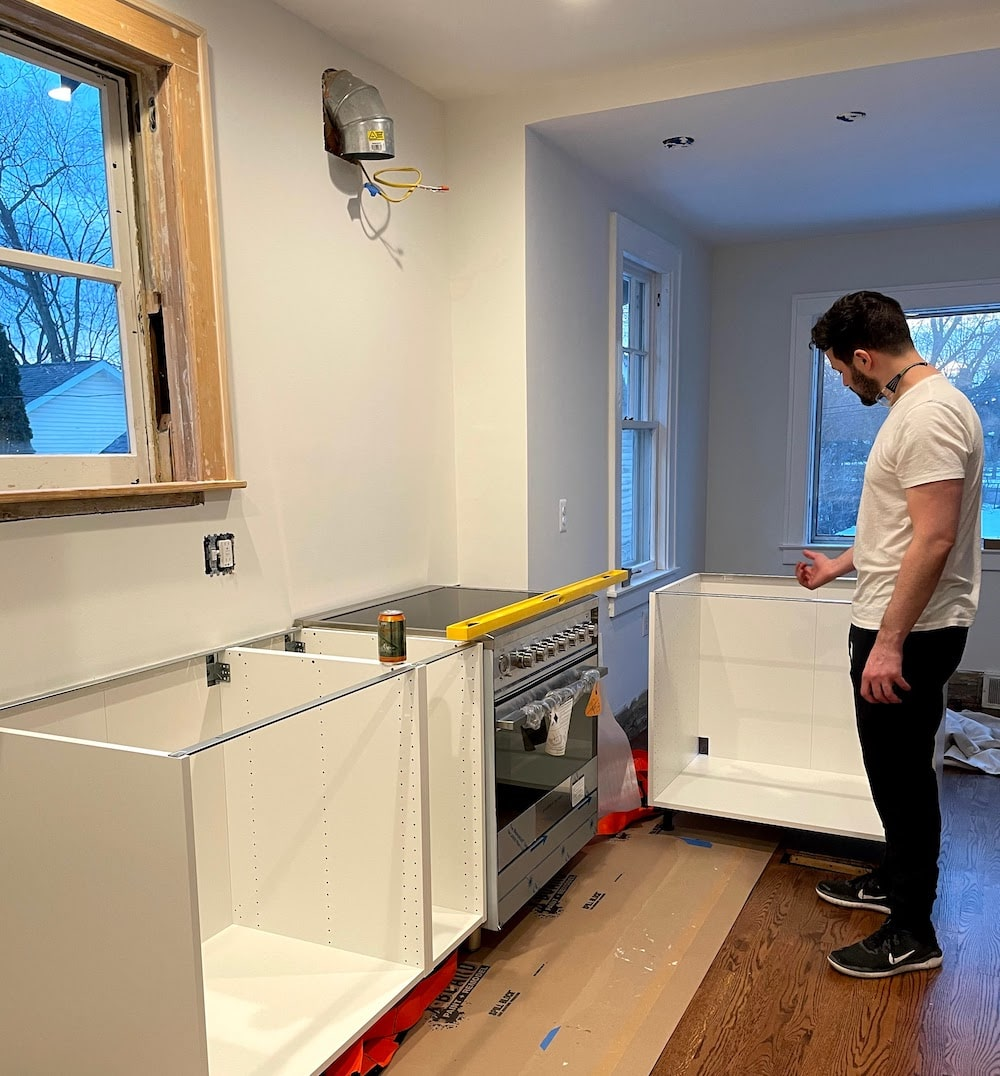
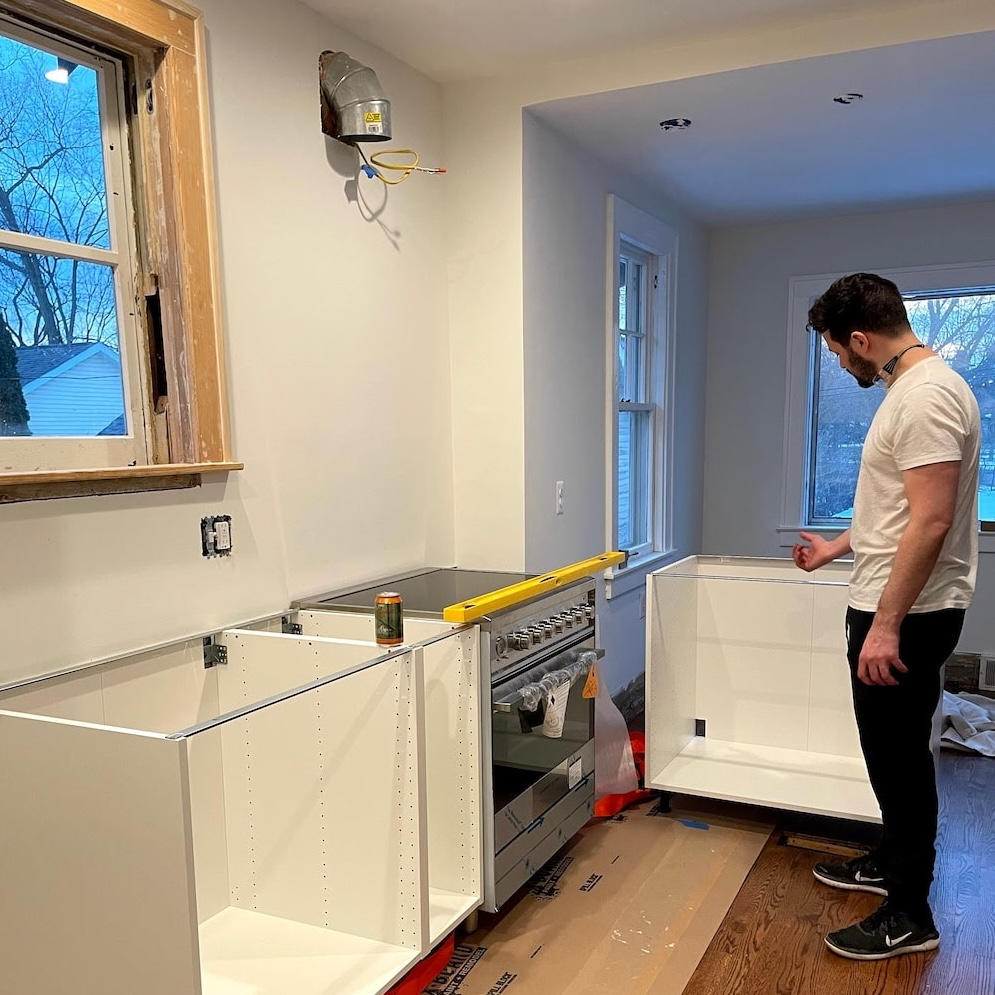
Add blog feed, finishing touches

diff --git a/src/content/blog/your-agent-needs-a-harness-not-a-framework.md b/src/content/blog/your-agent-needs-a-harness-not-a-framework.md
@@ -1,7 +1,7 @@
 ---
 title: "Your Agent Needs a Harness, Not a Framework"
 date: "2026-03-03"
-description: "Agent runtimes don't need yet another framework — they need a durable, event-driven harness that connects tools, memory, and models on production-grade infrastructure."
+description: "Why build your harness, and how to do it to avoid the framework trap."
 canonical: "https://x.com/djfarrelly/status/2028556984396452250"
 canonicalSource: "X.com"
 xImpressions: "170k"
@@ -20,9 +20,9 @@ Agent runtimes need the same thing. The LLM is the engine. Tools are the periphe
 
 That's the harness. And every agent framework is building one from scratch — their own retry logic, their own state persistence, their own job queues, their own event routing.
 
-**Durable, event-driven infrastructure already solves** this. Every LLM call or tool call becomes a step — an independently retryable unit of work. If the process dies on iteration five, iterations one through four are already persisted. Events route triggers between functions. Concurrency controls prevent collisions. Step-level traces give you **full observability** over every iteration of the agent loop. The infrastructure *is* the harness.
+**Durable, event-driven infrastructure already solves** this. Every LLM call or tool call becomes a step — an independently retryable unit of work. If the process dies on iteration five, iterations one through four are already persisted. Events route triggers between functions. Concurrency controls prevent collisions. Step-level traces give you **full observability** over every iteration of the agent loop. The infrastructure _is_ the harness.
 
-We built Utah — **Universally Triggered Agent Harness** — to prove this out. A conversational Telegram or Slack agent with tools, memory, sub-agent delegation, and full durability. Minimal TypeScript, no framework. Just Inngest functions, steps, and events providing the harness around a standard think → act → observe loop. **Think of it as a *durable*, cloud-ready OpenClaw.**
+We built Utah — **Universally Triggered Agent Harness** — to prove this out. A conversational Telegram or Slack agent with tools, memory, sub-agent delegation, and full durability. Minimal TypeScript, no framework. Just Inngest functions, steps, and events providing the harness around a standard think → act → observe loop. **Think of it as a _durable_, cloud-ready OpenClaw.**
 
 The "universally triggered" part matters: Telegram or Slack webhooks, cron schedules, sub-agent invocations, inter-function events — the agent doesn't know or care how it was activated. The trigger is decoupled from the work. Add a Slack bot tomorrow and the agent loop doesn't change. The harness routes it.
 
@@ -38,7 +38,7 @@ Telegram or Slack webhooks hit Inngest Cloud, where a webhook transform converts
 
 The worker uses Inngest's `connect()` API which establishes a persistent WebSocket connection from your local machine (or a mac mini or a remote server) to Inngest Cloud, without needing a public endpoint.
 
-The agent loop running in the worker is simple: it's a while loop with “steps” and the steps call LLMs and run tools. We use Pi's provider interface and their tools as *they're both great*, but you could use anything here. You could swap for AI SDK, TanStack AI, create your own tools or hook into MCP.
+The agent loop running in the worker is simple: it's a while loop with “steps” and the steps call LLMs and run tools. We use Pi's provider interface and their tools as _they're both great_, but you could use anything here. You could swap for AI SDK, TanStack AI, create your own tools or hook into MCP.
 
 ## If it's local, why use Inngest? Why not just use OpenClaw?
 
@@ -119,7 +119,11 @@ On top of those, Utah adds a few custom tools: `remember` (persist notes to a da
 The point: the tools story for AI agents is the same as any other software. Use existing libraries. Wrap them in Inngest steps. Done.
 
 ```tsx
-import { createReadTool, createWriteTool, createBashTool, /* ... */ } from "@mariozechner/pi-coding-agent";
+import {
+  createReadTool,
+  createWriteTool,
+  createBashTool /* ... */,
+} from "@mariozechner/pi-coding-agent";
 
 const tools = [
   createReadTool(config.workspace.root),
@@ -139,12 +143,12 @@ Utah isn't a single function that does everything. It's six functions that commu
 
 ```tsx
 const functions = [
-  handleMessage,     // The main agent loop
-  sendReply,         // Send responses back to the channel
-  acknowledgeMessage,// Typing indicator — fires immediately
-  failureHandler,    // Global error handler across all functions
-  heartbeat,         // Periodic scheduled check-ins
-  subAgent,          // Isolated sub-agent runs via step.invoke()
+  handleMessage, // The main agent loop
+  sendReply, // Send responses back to the channel
+  acknowledgeMessage, // Typing indicator — fires immediately
+  failureHandler, // Global error handler across all functions
+  heartbeat, // Periodic scheduled check-ins
+  subAgent, // Isolated sub-agent runs via step.invoke()
 ];
 ```
 
@@ -185,7 +189,7 @@ export const subAgent = inngest.createFunction(
       isSubAgent: true,
     });
     return await agentLoop(step);
-  }
+  },
 );
 ```
 
@@ -232,7 +236,7 @@ const PRUNING = {
 
 Old tool results get soft-trimmed (keep head + tail) or hard-cleared entirely when total context gets large. The last three iterations always stay intact.
 
-On top of that, there's a separate compaction system for the *session itself* — when estimated tokens exceed a threshold, the conversation history gets summarized before feeding it into the next run. Pruning handles within-run context. Compaction handles across-run accumulation.
+On top of that, there's a separate compaction system for the _session itself_ — when estimated tokens exceed a threshold, the conversation history gets summarized before feeding it into the next run. Pruning handles within-run context. Compaction handles across-run accumulation.
 
 We also added budget warnings — system messages injected when the agent is running low on iterations, telling it to wrap up. And overflow recovery: if the LLM returns a context-too-large error mid-run, we force-compact the messages and retry without wasting an iteration. Between pruning, compaction, budget pressure, and overflow recovery, the agent stays on track.
 

diff --git a/src/content/blog/your-agent-architecture-has-a-half-life.md b/src/content/blog/your-agent-architecture-has-a-half-life.md
@@ -1,7 +1,7 @@
 ---
 title: "Your Agent Architecture Has a Half-Life. Your Execution Layer Shouldn't."
 date: "2026-07-21"
-description: "Every six months, the \"right\" way to build an agent changes. Here's the one layer worth owning — and how to make everything else swappable."
+description: 'Every six months, the "right" way to build an agent changes. How should you architect your agentic system for evolution.'
 canonical: "https://www.inngest.com/blog/your-agent-architecture-has-a-half-life"
 canonicalSource: "Inngest Blog"
 image: "/images/posts/your-agent-architecture-has-a-half-life/featured-image-v2.png"
@@ -14,7 +14,7 @@ tags:
   - "ai engineering"
 ---
 
-*This article is adapted from a talk I gave at the AI Engineer World's Fair 2026 in San Francisco.*
+_This article is adapted from a talk I gave at the AI Engineer World's Fair 2026 in San Francisco._
 
 <div class="video">
     <iframe
@@ -48,11 +48,11 @@ I've written before about [why agents need a harness, not a framework](https://w
 
 ![Layers of the harness: execution, context, compute](/images/posts/your-agent-architecture-has-a-half-life/harness-layers.png)
 
-| Layer          | Role          | Contains                                          | Half-life |
-| -------------- | ------------- | ------------------------------------------------- | --------- |
-| **Execution**  | The brain     | flow · state · durability · retries · coordination | years     |
-| **Context**    | The knowledge | models · prompts · tools · memory · RAG           | weeks     |
-| **Compute**    | The hands     | sandboxes · runtimes · browsers                   | months    |
+| Layer         | Role          | Contains                                           | Half-life |
+| ------------- | ------------- | -------------------------------------------------- | --------- |
+| **Execution** | The brain     | flow · state · durability · retries · coordination | years     |
+| **Context**   | The knowledge | models · prompts · tools · memory · RAG            | weeks     |
+| **Compute**   | The hands     | sandboxes · runtimes · browsers                    | months    |
 
 **Execution** is what orchestrates each step of your agent. How work flows, how state persists, how failures are handled, how agents coordinate with each other. It's the brain.
 
@@ -134,7 +134,7 @@ const analyzeData = inngest.createFunction(
     });
 
     return report;
-  }
+  },
 );
 ```
 
@@ -178,7 +178,7 @@ const orchestrator = inngest.createFunction(
         data: { plan: research.plan, approved: true },
       });
     }
-  }
+  },
 );
 ```
 
@@ -279,7 +279,7 @@ const agentTask = inngest.createFunction(
       function: tokenEfficiencyScorer,
       data: { metadata: result.metadata },
     });
-  }
+  },
 );
 ```
 

diff --git a/src/pages/about.md b/src/pages/about.md
@@ -4,13 +4,19 @@ title: About
 description: "Dan Farrelly — co-founder and CTO at Inngest, formerly CTO at Buffer. Side projects: MailDev and Timezone.io."
 ---
 
-<div class="not-prose grid grid-cols-2 gap-4">
-  <img src="/images/about-dan-kitchen.jpg" alt="Building a kitchen" />
-  <img src="/images/about-dan-sasquatch.jpg" alt="Blending in with the locals" />
+<div class="not-prose gap-4">
+  <img src="/images/aie-july-2026.png" class="rounded-sm" alt="Speaking at AI Engineer World's Fair in July 2026" />
 </div>
 
-I'm Dan. I am a co-founder and CTO at [Inngest](https://www.inngest.com). I spent the previous several years as CTO at [Buffer](https://buffer.com). Back when I had more time I built [MailDev](https://maildev.github.io/maildev/) (dev tool, [open-source](https://github.com/maildev/maildev)) and Timezone.io (saas, [open-source](https://github.com/timezoneio/timezoneio)).
+Hey, I'm Dan. I co-founded [Inngest](https://www.inngest.com) in 2021 and spent the last several years as CTO leading product, technical and growth functions at the company. I'm passionate about developer tools, software architecture, and more recently agentic system architecture. Lately, I'm most interested in the space of deploying reliable, observable, and secure AI products. I also do select fractional work or advising; [send me a message](https://www.linkedin.com/in/djfarrelly/) or [book an intro](https://cal.com/dan-farrelly/intro) if you'd like to chat.
 
-In 2020 I bought a 96 year old house and started [a restoration and renovation project](https://www.instagram.com/michigancraftsman/) on the weekends. Hit me up if you want to chat home renovations.
+Earlier in my career, I was CTO at [Buffer](https://buffer.com) and I created the open source developer tool [MailDev](https://maildev.github.io/maildev/) (⭐6k+) that I still maintain over a decade later.
 
-I also speak at conferences and shows up in the press now and then — the highlights are on the [speaking & press page](/speaking-and-press/).
+I also speak at conferences and chat with folks on podcasts or in the press now and then — the highlights are on the [speaking & press page](/speaking-and-press/).
+
+Outside of work, I love [working to restore](https://www.instagram.com/michigancraftsman/) my 100+ year old craftsman bungalow, from restoring old windows, doing electrical work, to refinishing wood doors and trim. I mentor my nephew's robotics team and also love biking, hiking, and camping.
+
+<div class="not-prose grid grid-cols-2 gap-4">
+  <img src="/images/about-dan-kitchen.jpg" class="rounded-sm" alt="Building a kitchen" />
+  <img src="/images/about-dan-sasquatch.jpg" class="rounded-sm" alt="Blending in with the locals" />
+</div>

diff --git a/src/content/blog/agent-loop-architecture.md b/src/content/blog/agent-loop-architecture.md
@@ -1,7 +1,7 @@
 ---
 title: "The Agent Loop Architecture"
 date: "2026-06-18"
-description: "Everyone's asking what a loop is. The question nobody's asking is what runs the loop. Durable orchestration is the execution layer underneath — and it's the foundation of the agent loop architecture."
+description: "Everyone's asking what a loop is. The question nobody's asking is what runs the loop."
 canonical: "https://x.com/djfarrelly/status/2067677007140278630"
 canonicalSource: "X.com"
 xImpressions: "575k"

diff --git a/src/content/blog/background-agents-are-here-your-orchestration-isnt-ready.md b/src/content/blog/background-agents-are-here-your-orchestration-isnt-ready.md
@@ -1,7 +1,7 @@
 ---
 title: "Background agents are here. Your orchestration isn't ready."
 date: "2026-05-08"
-description: "Every six months, the \"right\" way to build an AI agent changes. How can you design for the next rewrite?"
+description: "What is needed to run effective agents asynchronously."
 canonical: "https://x.com/djfarrelly/status/2052779234234380479"
 canonicalSource: "X.com"
 xImpressions: "42k"
